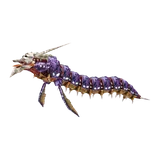
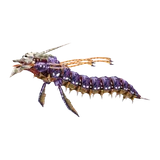
Attach De Rol Le's tentacles to its render

Changed region(s): [[0.3125, 0.3438, 0.7188, 0.4375]]

diff --git a/scripts/render_monster_models.py b/scripts/render_monster_models.py
@@ -75,7 +75,7 @@ def extract_archives(renders: dict, ephinea_data: Path, harness_assets: Path) ->
         return bundles[archive]
 
     def extract(render: dict) -> dict:
-        job = {key: value for key, value in render.items() if key not in ("archive", "model", "texture", "textureOrder", "parts")}
+        job = {key: value for key, value in render.items() if key not in ("archive", "model", "texture", "textureOrder", "parts", "attach")}
         if "archive" in render:
             entries = bundle(render["archive"])
             # Models and motions may share a base name (fs_obj_hiraishin_a.nj / .njm); index them apart.
@@ -103,6 +103,9 @@ def extract_archives(renders: dict, ephinea_data: Path, harness_assets: Path) ->
                 job["motion"] = f"raw/{stem}/{render['motion']}"
         if "parts" in render:
             job["parts"] = [extract(part) for part in render["parts"]]
+        # Attached parts carry the main model's bone index they follow (e.g. De Rol Le's tentacles).
+        if "attach" in render:
+            job["attach"] = [extract(part) for part in render["attach"]]
         return job
 
     return {label: extract(render) for label, render in renders.items()}

diff --git a/docs/MONSTER_CATALOG.md b/docs/MONSTER_CATALOG.md
@@ -337,7 +337,7 @@ did not re-evaluate tiers or change the in-game rotation.
 - 模型来源有两种。`npc` 取本地 phantasmal-world（提交 `a8890d22`）已提取的 `assets/npcs`，按其 `EntityAssetLoader.entityTypeToPath` 解析，Ultimate 皮肤按 `UltimateSkins.kt`。`archive` + `model`（+ `motion`）直接读取 Ephinea 客户端数据：`data.gsl` 中的 BML 或散放的 `.bml`（`scripts/pso_archives.py` 负责 PRS、GSL 与 BML 解析）；没有自带贴图的条目使用同一档案的第一个贴图包。首领、部位与 Ultimate 档案（`_a` / `_ap`）以及 EP4 首领的分阶段待机动作均由此取得。
 - phantasmal-world 的部分资源命名有误，已改用客户端档案：其 Hidoom / Migium 实为出场地面物件（正确模型是 Pan Arms 档案 `bm7_s_paa_body` 的 `pal` / `par`），Canane 为另一模型（正确的是 `bm_ene_me1_mb`），挂在 MerissaA 名下的动作属于 Slime（`bm4_ps_ma_body`）。每次改动都应把渲染图与 Wiki / 高清图逐项对照。
 - 渲染：`npm run generate:monster-renders -- --harness-assets <phantasmal-world>/web/src/jsMain/resources/assets/npcs`（`scripts/render_monster_models.py`）先把档案条目提取到该目录的 `raw/`，再调用 `scripts/render_monster_models.mjs` 在无界面浏览器中驱动 phantasmal-world 的导出入口 `?npcBatch=1`（`window.__renderNpc`），用它自己的蒙皮与 NJM 动画转换摆姿势，分别在黑底与白底上渲染 2048 px；两图之差还原透明度，叠加发光材质保持半透明。结果裁切到模型、居中留边，输出 1024 px 与 160 px WebP，`manifest.json` 记录 SHA-256。该导出入口只存在于本机 phantasmal-world 工作副本，不属于其仓库；重新渲染前需在本机构建并以 `--harness` 指向它。
-- 姿势：默认用模型自己的待机动作（wait / stand / standby 等，Poison Lily 用张开的 `waito`）；EP4 首领一、二阶段分别用 `1st_standby` / `2nd_standby`。De Rol Le（含 Ultimate）用前进动作 `forward` 第 0 帧的伸展身体，模型绕 X 轴抬头 12°，从头部斜前方 45° 取景，与维护者提供的参考图一致。Spinner 用 `standby`：其动作类型 `0x2005` 的四元数旋转位于缩放之前，phantasmal-world 原解析顺序（缩放在前）会读错，本机导出入口的构建修正了这一顺序。没有动作的模型用绑定姿势，Hildeblue 借用 Hildebear、Gobooma / Gigobooma 借用 Booma 的同骨架动作。Hidoom 以前的地面物件、Merissa A / AA、Pouilly Slime 的环境反射外壳在导出中会画成不透明色块，按材质序号隐藏。
+- 姿势：默认用模型自己的待机动作（wait / stand / standby 等，Poison Lily 用张开的 `waito`）；EP4 首领一、二阶段分别用 `1st_standby` / `2nd_standby`。De Rol Le（含 Ultimate）用前进动作 `forward` 第 0 帧的伸展身体，模型绕 X 轴抬头 12°，从头部斜前方 45° 取景，与维护者提供的参考图一致。颈部 4 根触手是独立模型 `boss2_b_derorure_tentacle`，游戏运行时挂到本体头部骨骼下的 4 个空节点（骨骼 29–32）；`attach` 按骨骼编号把部件挂到摆好姿势的本体上，触手用自身摆动动作 `tloop` 第 16 帧（向后上方伸展）。Spinner 用 `standby`：其动作类型 `0x2005` 的四元数旋转位于缩放之前，phantasmal-world 原解析顺序（缩放在前）会读错，本机导出入口的构建修正了这一顺序。没有动作的模型用绑定姿势，Hildeblue 借用 Hildebear、Gobooma / Gigobooma 借用 Booma 的同骨架动作。Hidoom 以前的地面物件、Merissa A / AA、Pouilly Slime 的环境反射外壳在导出中会画成不透明色块，按材质序号隐藏。
 - 档案贴图：没有自带贴图包的模型按编号引用同一档案的贴图包（默认第一个，可用 `texture` 指定、`textureOrder` 重排）。提取时把 XVRT 块首尾相接重新打包，因为部分档案的块带对齐填充，顺序读取 IFF 的解析器会只读到第一张贴图；同名的模型与动作（如 `fs_obj_hiraishin_a.nj` / `.njm`）分开索引。解码后的 DXT 贴图使用线性过滤（与游戏一致，避免放大后的像素块）。
 - 组合与特殊材质：`parts` 在同一场景中叠加多个模型（Olga Flow (Form 1) 的本体 `bssgc_pf01_body` 与腿 `bossgc_pf01_leg`，均用空中待机 `skywait`；该姿势按倒挂制作，`rotate` 绕 X 轴翻转 180° 后从 270° 方向取景，剑朝下，与高清图一致；地面待机 `grdwait` 绕 Z 轴翻转 180° 的正面姿势作为 `alternates` 保留，详情页以“地面姿势”按钮切换，列表缩略图只用主渲染）。Bee / Gee 的 `re4_b_bit` 是没有纹理坐标的环境映射模型，`plainMaps` + `planarUv` 按正面投影纹理坐标，显示其漩涡纹理。De Rol Le (Shell) 用头部骨盔 `boss2_b_helm_break`（与 Wiki 截图一致），Ultimate 取 `_a` 档案。
 - 未覆盖（5 个条目，保持高清图库或 Wiki 图片）：Vol Opt (Form 1)（参考图是整面墙）与 (Monitor)（屏幕上 Vol Opt 的脸是战斗中的实时画面，模型贴图只有文字）、De Rol Le (Mine)（候选模型与参考不符）、Nar Lily ×2（红色贴图未找到）。Death Gunner 目前与 Dark Gunner 使用同一贴图，客户端档案中没有找到其独立配色；Epsigard 使用 `re6_b_claw_body` 自带的红白贴图，比游戏截图多出白色区域。
